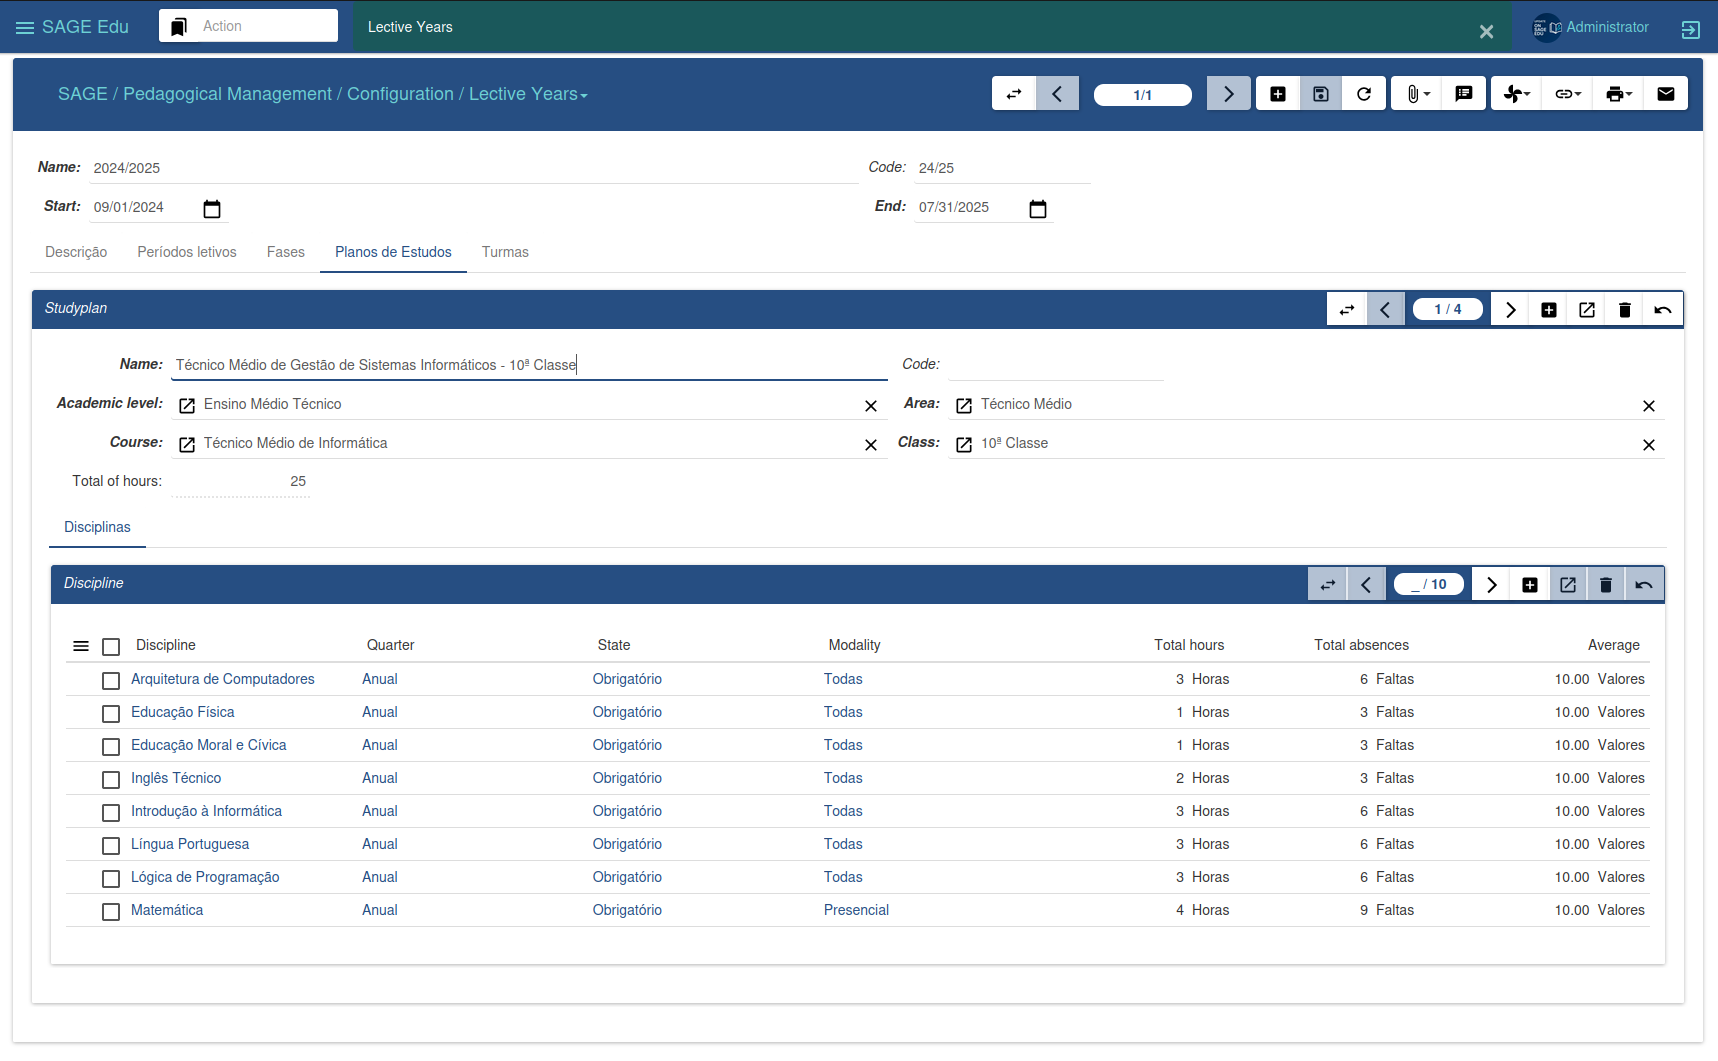
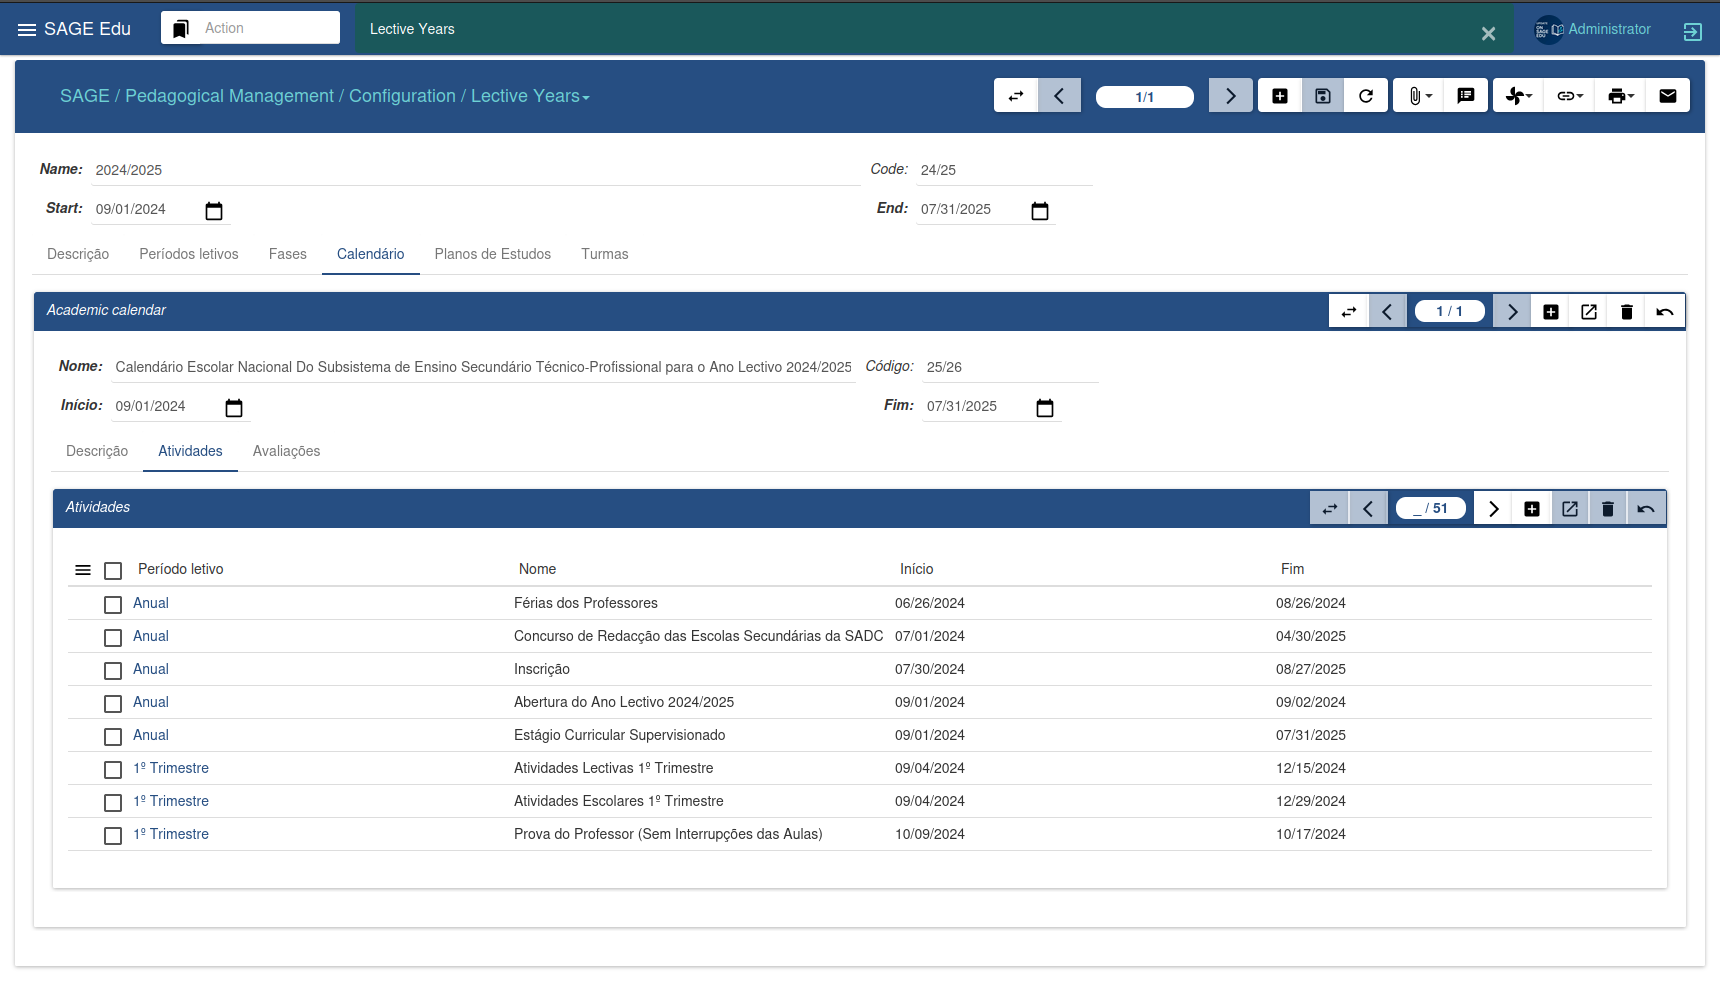
SAGE Edu v1.3.0

Changed region(s): [[0.0, 0.0, 1.0, 0.8806], [0.0, 0.9717, 0.9872, 1.0]]

diff --git a/README.md b/README.md
@@ -1,6 +1,6 @@
 # 🏫 SAGE Education - Institutional Management / ERP
 
-**Version:** 1.2.x  
+**Version:** 1.3.x  
 **Module:** Tryton ERP Version 7.0   
 **Developer:** Zacarias Juliano Capingala (FPC)  
 
@@ -111,7 +111,8 @@ SAGE Education centralizes **all aspects of school management**, including:
 **Website:** [sage-edu.comunidadedosaber.ao](https://sage-edu.comunidadedosaber.ao)  
 **App:** [sage.comunidadedosaber.ao](https://sage-edu.comunidadedosaber.ao)  
 **Docs:** [docs.comunidadedosaber.ao](https://sage-edu.comunidadedosaber.ao)  
-**Team:** [comunidadedosaber.ao](https://comunidadedosaber.ao)    
+**Team:** [comunidadedosaber.ao](https://comunidadedosaber.ao)  
+**PyPi:** [SAGE Edu](https://pypi.org/user/comunidade_do_saber)    
 
 
 ---
@@ -126,8 +127,9 @@ Please open an issue or submit a pull request following the SAGE Edu contributio
 
 If you encounter any errors or require technical support, please contact us through the channels below:
 
-- 📧 **E-mail:** [suporte@comunidadedosaber.ao](mailto:suporte@comunidadedosaber.ao)   
--    **E-mail:** [comercial@comunidadedosaber.ao](mailto:comercial@comunidadedosaber.ao)   
+- 📧 **E-mail:** 
+    -   [suporte@comunidadedosaber.ao](mailto:suporte@comunidadedosaber.ao)
+    -   [comercial@comunidadedosaber.ao](mailto:comercial@comunidadedosaber.ao)  
 - 💬 **WhatsApp:** [+244 955 868 110](https://wa.me/244955868110)
 
 

diff --git a/docs/modulos/sga/intro.md b/docs/modulos/sga/intro.md
@@ -71,6 +71,12 @@ Its main function is to manage assessments, keeping track of published assessmen
 
 This module provides the necessary foundation for more efficient class management, allowing you to automate the posting of grades and the academic history of students.
 
+* **Classe Evaluation Module**
+
+Its main function is to complement the class module, adding new features such as class management, assessments, and a calendar.
+
+It offers advanced tools for generating reports on classes, teachers, and students, allowing for centralized and efficient monitoring of the performance and progress of each class.
+
 * **Configuration Module**
 
 Its main function is to allow the configuration of the modules that make up the academic pedagogical management.
@@ -130,10 +136,6 @@ Assistants are guided routines that facilitate the execution of complex processe
 
 * Planos de Estudos
 
-* Critério de Admissão
-
-* Pauta de Exame de Acesso
-
 * Ficha Turma
 
 * Horário Turma
@@ -143,6 +145,16 @@ Assistants are guided routines that facilitate the execution of complex processe
 * Lista de Docentes
 
 * Plano de Aula
+
+* Critério de Admissão
+
+* Pauta de Exame de Acesso
+
+* Calendário Geral
+
+* Calendário de avaliações
+
+* Relatório Turma
 
 * Pauta Final
 

diff --git a/docs/guia/intro.md b/docs/guia/intro.md
@@ -27,9 +27,15 @@ The **Akademy Company (Institution Management)** module is a complementary modul
 
 ### Akademy Class Module
 
-The **Akademy Class (Class Management)** module is a complementary module responsible for **academic management focused on classes**, keeping all information organized and accessible to the institution.
+The **Akademy Class (Classes Management)** module is a complementary module responsible for **academic management focused on classes**, keeping all information organized and accessible to the institution.
 
 It offers advanced tools for **controlling classes, teachers, and students**, allowing for centralized and efficient monitoring of each student's performance and progress.
+
+#### Akademy Classe Evaluation Module
+
+The **Akademy Classe Evaluation** module is a complementary module for **Classes Management** responsible for **academic management focused on classes evaluation and calendary**, keeping all information organized and accessible to the institution.
+
+It offers advanced tools for **report classes, teachers, and students**, allowing for centralized and efficient monitoring of each class performance and progress.
 
 ### Akademy Matriculation Module
 

diff --git a/docs/guia/demo.md b/docs/guia/demo.md
@@ -1,13 +1,8 @@
-### Demo
+### 🌐 Homepage
 
-#### 🌐 Homepage
+#### Demo
 
 We host a public demo server where you can try out SAGE Education with different access profiles:
-
-- **Website:** [sage-edu.comunidadedosaber.ao](https://sage-edu.comunidadedosaber.ao)   
-- **App:** [sage.comunidadedosaber.ao](https://sage.comunidadedosaber.ao) 
-- **Time:** [comunidadedosaber.ao](https://comunidadedosaber.ao)  
-- **PyPi:** [SAGE Edu](https://pypi.org/user/comunidade_do_saber)
 
 
 | **Profile** | **User**     | 
@@ -18,6 +13,12 @@ We host a public demo server where you can try out SAGE Education with different
 | Direction   | direction    | 
 | Admin       | admin        |
 
+  
+**Website:** [sage-edu.comunidadedosaber.ao](https://sage-edu.comunidadedosaber.ao)  
+**App:** [sage.comunidadedosaber.ao](https://sage-edu.comunidadedosaber.ao)  
+**Docs:** [docs.comunidadedosaber.ao](https://sage-edu.comunidadedosaber.ao)  
+**Team:** [comunidadedosaber.ao](https://comunidadedosaber.ao)  
+**PyPi:** [SAGE Edu](https://pypi.org/user/comunidade_do_saber)
 
 #### 💬 Technical Support
 

diff --git a/docs/guia/released_process.md b/docs/guia/released_process.md
@@ -26,7 +26,7 @@ After validation, final tests and necessary adjustments, the stable version is o
 
 ### 📦 Stable Version
 
-The current stable version of **SAGE Education** is 1.2.0, developed on the basis of Trytond 7.0.
+The current stable version of **SAGE Education** is 1.3.0, developed on the basis of Trytond 7.0.
 
 The expected dates for the next versions will be announced according to the community's progress and may change.
 
@@ -36,7 +36,7 @@ The expected dates for the next versions will be announced according to the comm
 | 28-11-2025  | 1.0.0        | 6.8.14            |
 | 12-01-2026  | 1.1.0        | 6.8.14            |
 | 12-02-2026  | 1.2.0        | 7.0.0             |
-| 12-03-2026  | 1.?.0        | 7.0.0             |
+| 12-03-2026  | 1.3.0        | 7.0.0             |
 | 12-04-2026  | 1.?.0        | 7.0.0             |
 | 12-05-2026  | 1.?.0        | 7.0.0             |
 

diff --git a/docs/guia/contributing.md b/docs/guia/contributing.md
@@ -5,7 +5,7 @@
 
 ### 🌍 Software Translation
 
-Currently, **SAGE Education** is only available in **Portuguese**, **English** and **French**.
+Currently, **SAGE Education** is only available in **Portuguese**, **English**, **French** and **German**.
 
 Expanding to new languages is essential to broaden the project's impact and ensure it can be used in each user's native language.
 
@@ -46,6 +46,7 @@ git clone https://github.com/zacariasjuliano/akademy-classe
 git clone https://github.com/zacariasjuliano/akademy-matriculation
 git clone https://github.com/zacariasjuliano/akademy-matriculation_confirmation
 git clone https://github.com/zacariasjuliano/akademy-dashboard
+git clone https://github.com/zacariasjuliano/akademy-classe-evaluation
 ```
 
 ### 🐞 Reporting Bugs

diff --git a/docs/modulos/sga/configuration.md b/docs/modulos/sga/configuration.md
@@ -50,15 +50,15 @@ Each metric contains information such as rating, rating type, and metric name.
 
 ---
 
-##### School Year
+##### Lective Years
 
-The academic year interface allows for complete management of academic periods.
+The lective years interface allows for complete management of academic periods.
 
 In it, you can define trimesters, phases and admission criteria, study plans, and create new classes.
 
 By clicking "New," you can create a new academic year, specifying the desired start and end dates.
 
-![Alternative text](../../imagens/academic_path.png)
+![Alternative text](../../imagens/lective_years.png)
 
 * To define the quarterly periods, click on the "Quarters" tab. By clicking "New", add the desired academic periods.
 

diff --git a/docs/guia/dev.md b/docs/guia/dev.md
@@ -131,6 +131,7 @@ git clone https://github.com/zacariasjuliano/akademy-classe
 git clone https://github.com/zacariasjuliano/akademy-matriculation
 git clone https://github.com/zacariasjuliano/akademy-matriculation_confirmation
 git clone https://github.com/zacariasjuliano/akademy-dashboard
+git clone https://github.com/zacariasjuliano/akademy-classe-evaluation
 ```
 
 💡 Note: After installing new modules, it is recommended to restart the Tryton server and run trytond-admin again to synchronize the tables.

diff --git a/docs/index.md b/docs/index.md
@@ -35,5 +35,5 @@ This creates a virtuous cycle: the institution that adopts SAGE Education to man
 * **Organization:** Familia Pequenino Capingala (FPC)   
 * **Author:** Zacarias J. Capingala 
 * **Project:** SAGE Edu 
-* **Version:** 1.2  
-* **Date:** Feberaury/2026
+* **Version:** 1.3  
+* **Date:** March/2026

diff --git a/docs/guia/install.md b/docs/guia/install.md
@@ -40,6 +40,7 @@ pip install akademy-classe
 pip install akademy-matriculation
 pip install akademy-matriculation-confirmation
 pip install akademy-dashboard
+pip install akademy-classe-evaluation
 ```
 
 * Create Tryton configuration file (trytond.conf)
